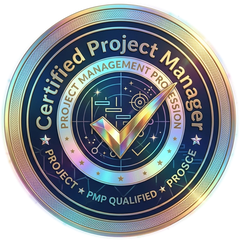
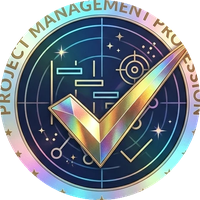
Simplify approval medal artwork so it reads clearly at small sizes
The full multi-ring seal (outer gold band, two arcs of small text)
turned into an unreadable colored blur once shrunk down to a 14-22px
inline badge. Re-cropped the same artwork to just its inner checkmark
medallion plus a thin holographic ring — enough to still read as a
distinct badge, not a plain flat checkmark — and shrank the rendered
sizes further (18px next to the candidate name, 14px on the list-card
photo corner) since even the simplified crop stays legible at that
scale.

diff --git a/src/modules/competency/components/ApprovalMedal.tsx b/src/modules/competency/components/ApprovalMedal.tsx
@@ -4,7 +4,7 @@
  * certified-PM medallion, so no extra caption text is layered on top of it.
  */
 export function ApprovalMedal({ size = 'lg' }: { size?: 'lg' | 'sm' }) {
-  const width = size === 'lg' ? 22 : 18
+  const width = size === 'lg' ? 18 : 14
 
   return (
     <img
